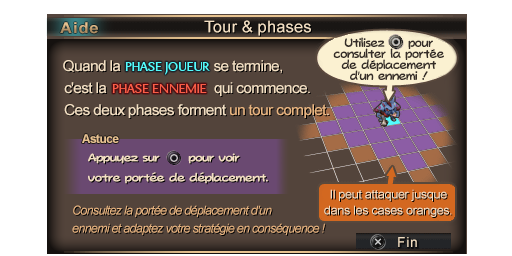
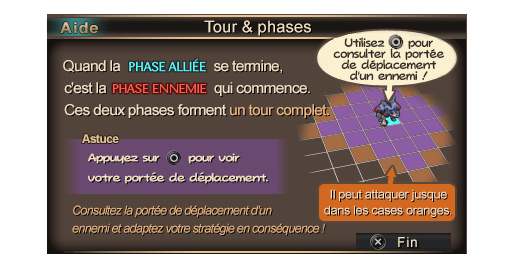
Page d'aide HELP0201 : « PHASE JOUEUR » -> « PHASE ALLIÉE », comme les bannières ; MD5 v2.0

Changed region(s): [[0.2188, 0.2188, 0.4375, 0.2812]]

diff --git a/README.md b/README.md
@@ -57,7 +57,7 @@ Les textures elles aussi sont traduites — exemple avec une page d'aide (en hau
    - en ligne, sans installation : [Rom Patcher JS](https://www.marcrobledo.com/RomPatcher.js/) ;
    - Windows : *xdelta UI* ou *Delta Patcher* ;
    - ligne de commande : `xdelta3 -d -s "Jeanne d'Arc (USA).iso" Jeanne_dArc_FR.xdelta "Jeanne d'Arc (FR).iso"`
-4. Vérifiez le résultat — MD5 de l'ISO français : `ff0cbd643a58e71aa5dbb3f4fddacb2d` (v1.0.1).
+4. Vérifiez le résultat — MD5 de l'ISO français : `94ff4a28402aa216865ecccec60434f2` (v2.0).
 
 Compatible **PPSSPP** et **PSP avec custom firmware** (l'exécutable est fourni déchiffré).
 
